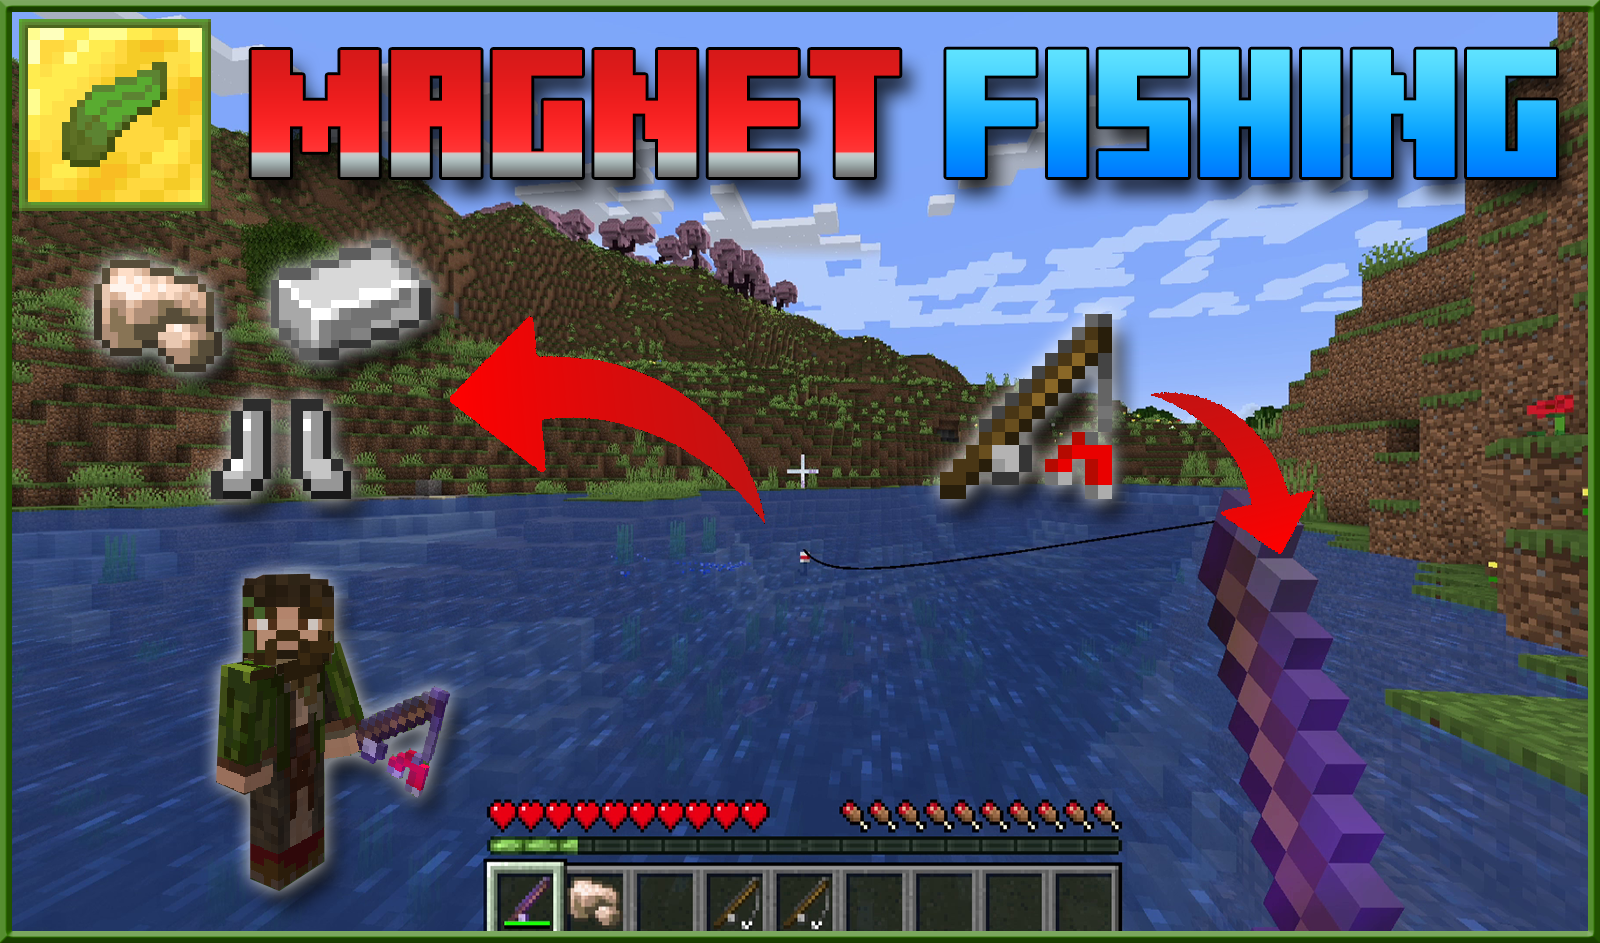
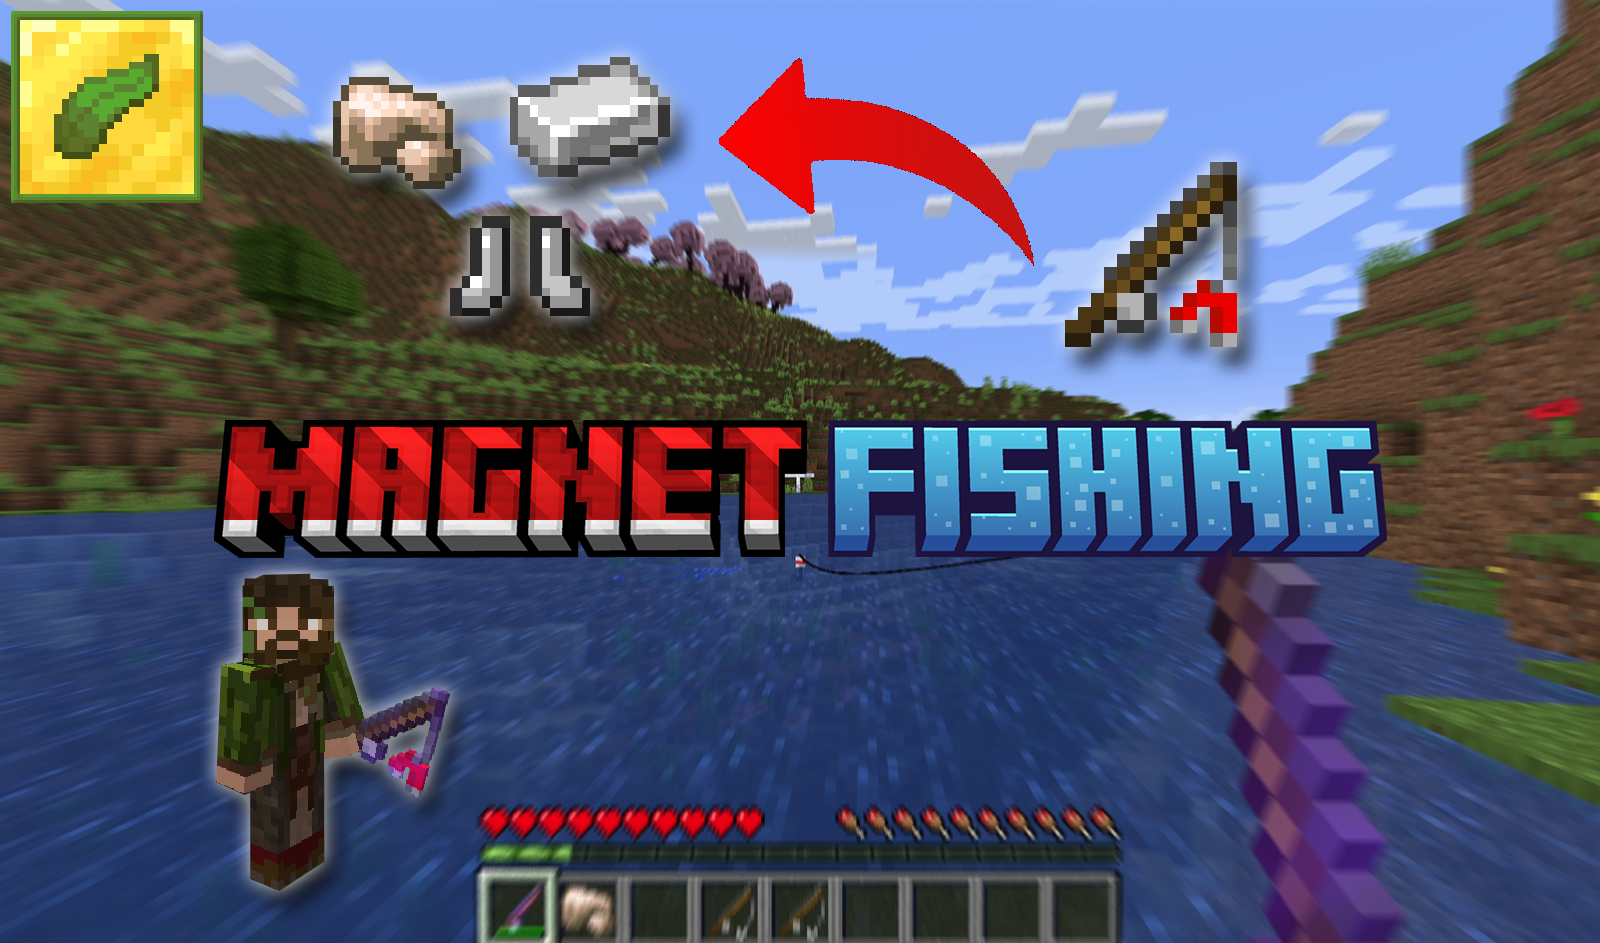
ethical textiles + magnet fishing updates

diff --git a/pages/vegancraft/ethical_textiles.md b/pages/vegancraft/ethical_textiles.md
@@ -4,36 +4,44 @@ keywords: minecraft, datapack, vegan, veganism, plant-based, pacifist, clothes, 
 tags: [datapack, vegancraft, standalone, crafting]
 sidebar: home_sidebar
 toc: true
-last_updated: 05/Jan/2024
+last_updated: 22/May/2024
 permalink: ethical_textiles.html
 published: true
 github: https://github.com/daenvil/vegancraft
 pmc: https://www.planetminecraft.com/data-pack/ethical-textiles-plant-string-and-leather/
 first_release: ["15","Oct","2022"]
-last_release: ["05","Jan","2024"]
+last_release: ["22","May","2024"]
 logo: vegancraft/ethical_textiles/pack.png
 thumbnail: vegancraft/ethical_textiles/thumbnail.png
-intro: "A datapack that adds plant-based alternatives to leather, string, wool, and feathers.<br/><br/>You will need my <a href=acacia_gum.html>Acacia Gum datapack</a> in order to have a vegan leather option (but it's not required to use this datapack)."
-abstract: "Plant-based alternatives for string, leather, beds, and feathers. Use together with <i>Acacia Gum</i> to have fully vegan leather."
+intro: "A datapack that adds plant-based alternatives to leather, string, wool, feathers, and armadillo scute.<br/><br/>You will need my <a href=acacia_gum.html>Acacia Gum datapack</a> in order to have a vegan leather option (but it's not required to use this datapack)."
+abstract: "Plant-based alternatives for string, leather, beds, feathers, and armadillo scute. Use together with <i>Acacia Gum</i> to have fully vegan leather."
 priority: 4
 index: 12
-gallery: [images/vegancraft/ethical_textiles/thumbnail.png,https://static.planetminecraft.com/files/image/minecraft/data-pack/2022/359/16162473-advancements_l.webp]
+gallery: [images/vegancraft/ethical_textiles/thumbnail.png]
 ---
 
 ## Downloads
 Choose the option compatible with your Minecraft version:
 
 <ul id="profileTabs" class="nav nav-tabs">
-    <li class="active"><a href="#current" data-toggle="tab">1.20+</a></li>
+    <li class="active"><a href="#current" data-toggle="tab">1.20.5–1.20.6</a></li>
+    <li><a href="#legacy1-20" data-toggle="tab">1.20–1.20.4</a></li>
     <li><a href="#legacy" data-toggle="tab">1.17–1.19.4</a></li>
 </ul>
 
 <div class="tab-content">
     <div role="tabpanel" class="tab-pane active" id="current">
         <p>
-            {% include dp_badges.html supports="1.20+" tested="1.20, 1.20.4" %}
+            {% include dp_badges.html supports="1.20.5–1.20.6" tested="1.20.6" %}
             <br/>
-            {% include dp_download.html version="v1.1.1" pmc-url="https://www.planetminecraft.com/data-pack/ethical-textiles-plant-string-and-leather/" github-url="https://github.com/daenvil/vegancraft/releases/download/v1.0.1/ethical_textiles_v1.1.1.zip" rp-version="v1.0" rp-github-url="https://github.com/daenvil/vegancraft/releases/download/v1.0/vegancraft-RP_v1.0.zip" %}
+            {% include dp_download.html version="v2.0" pmc-url="https://www.planetminecraft.com/data-pack/ethical-textiles-plant-string-and-leather/" github-url="https://github.com/daenvil/vegancraft/releases/download/v1.1-pre3/ethical_textiles_v2.0.zip" rp-version="v1.0" rp-github-url="https://github.com/daenvil/vegancraft/releases/download/v1.1-pre3/vegancraft-RP_v1.1.zip" %}
+        </p>
+    </div>
+    <div role="tabpanel" class="tab-pane" id="legacy1-20">
+        <p>
+            {% include dp_badges.html supports="1.20–1.20.4" tested="1.20, 1.20.4" %}
+            <br/>
+            {% include dp_download.html version="v1.1.1" github-url="https://github.com/daenvil/vegancraft/releases/download/v1.0.1/ethical_textiles_v1.1.1.zip" rp-version="v1.0" rp-github-url="https://github.com/daenvil/vegancraft/releases/download/v1.0/vegancraft-RP_v1.0.zip" discontinued=true %}
         </p>
     </div>
     <div role="tabpanel" class="tab-pane" id="legacy">
@@ -53,7 +61,7 @@ Choose the option compatible with your Minecraft version:
 
 ### New recipes
 
-{% include comments/important.html content="These recipes will output a knowledge book, the knowledge book will convert automatically into the desired item once you click on it. If using the resourcepack, the knowledge book will display as a question mark named \"Custom Item\"." %}
+{% include comments/important.html content="The Vegancraft Resourcepack (download above) is required to see the new textures in game." %}
 
 #### Faux Leather
 
@@ -76,26 +84,46 @@ or 6:
 #### Plant-based string
 Vines, sugar cane, and dripleaves can be used to craft **string**. Use 4 of these strings to craft vegan "wool".
 
-{% include image/basic.html src="vegancraft/ethical_textiles/screenshots/recipes/string.gif" alt="Plant string recipes" align="center" width="200" %}
+{% include image/basic.html src="vegancraft/ethical_textiles/screenshots/recipes/string.gif" alt="Plant string recipes" align="center" width="300" %}
 
 #### Faux feathers
 Craft faux **feathers** with a stick, two strings, and one of any leaves.
 
-{% include image/basic.html src="vegancraft/ethical_textiles/screenshots/recipes/feather.gif" alt="Faux Feather recipe" align="center" width="200" %}
+{% include image/basic.html src="vegancraft/ethical_textiles/screenshots/recipes/feather.png" alt="Faux Feather recipe" align="center" width="300" %}
 
 #### Synthetic cobwebs
-**Cobwebs** can be crafted with 8 strings and a slime ball.
+**Cobwebs** can be crafted a slime ball surrounded by 8 strings.
 
-### Custom textures
-Faux leather and plant string have their own texture. Here they are compared to their vanilla counterparts:
+{% include image/basic.html src="vegancraft/ethical_textiles/screenshots/recipes/cobweb.png" alt="Synthetic Cobweb recipe" align="center" width="300" %}
 
-{% include image/basic.html src="vegancraft/ethical_textiles/screenshots/texture_comparison.png" alt="Texture comparison" align="center" width="180" %}
+#### Armor scales
+Crafted with a diamond, two strings, and a slime ball. It's an alternative to **armadillo scute**. Use it to craft wolf armor without using armadillos.
 
-The [Vegancraft Resourcepack](#downloads) is required to see these textures in-game.
+{% include image/basic.html src="vegancraft/ethical_textiles/screenshots/recipes/armor_scale.png" alt="Armor Scale recipe" align="center" width="300" %}
+{% include image/basic.html src="vegancraft/ethical_textiles/screenshots/recipes/wolf_armor.png" alt="Wolf armor recipe using armor scales instead of armadillo scutes" align="center" width="300" %}
 
-{% include comments/important.html content="Due to the way I coded the recipes, sometimes the output will show the actual vanilla item. If you want the custom item name and texture, just change the position of any ingredient and the output will change to the knowledge book (a question mark, when using the resourcepack). I decided to do it this way so the the vanilla counterpart of the output shows up in the in-game recipe book, instead of having to remember what the recipes do. Here is an example, the recipe shows a vanilla bed, and changing the position of one ingredient outputs the custom item:" %}
+#### Alternative brush recipe
+With this datapack, you can craft a regular brush using **4 string instead of a feather**.
 
-{% include image/basic.html src="vegancraft/ethical_textiles/screenshots/swap_ingredients.gif" alt="Swapping the position of two ingredients will change the output to a knowledge book, if it was not already" align="center" width="300" %}
+{% include image/basic.html src="vegancraft/ethical_textiles/screenshots/recipes/brush.png" alt="Armor Scale recipe" align="center" width="300" %}
+
+### Recipe book integration
+
+From Minecraft 1.20.5 and later versions, the custom items will appear in the in-game recipe book like any other recipe, and you can filter them using the name of this datapack:
+
+{% include image/basic.html src='vegancraft/ethical_textiles/screenshots/recipe_book.png' alt='All custom items showing up in the in-game recipe book' align='center' width='600' nn=true %}
+
+However, there's a limitation which is kind of annoying, which is that custom items are not automatically recognized as ingredients, so you will still need to put them manually in the crafting grid. This will be the case with any recipe that uses string, leather, or feathers.
+
+{% include comments/important.html content="Prior to Minecraft 1.20.5, the datapack worked differently, with the custom recipes outputting a knowledge book. I recommend playing on Minecraft 1.20.5 or superior, which is much better due to this change." %}
+
+### Vegan ingredients detection
+
+Since some items can be crafted using regular slime balls (instead of the vegan alternative, [acacia gum](acacia_gum.html)), the datapack will detect if you are using vegan slime balls or not when crafting these items, labelling them if they are not vegan. Vegan and non-vegan items do not stack.
+
+Hopefully, Minecraft will add proper ingredient detection in the future so this can be improved.
+
+Strings and other items are not treated this way, though, since it would be too complex and pointless to track where they came from.
 
 ### Vegancraft
 
@@ -103,30 +131,21 @@ This is a standalone datapack, but was designed as a part of [Vegancraft](veganc
 
 As part of its integration on Vegancraft, this datapack includes the following additional features:
 
+When playing using the full Vegancraft datapack instead of the standalone Plant-based Foods datapack, the following features are enabled:
+
 - A custom advancement tree.
-- Some xp will be awarded when crafting faux leather, plant string, and faux feathers. For leather/feathers, the amount of xp is somewhat equivalent to what you would get by getting it the "regular" way (breeding and killing cows/chickens). For string, it is only 0.1 XP, since it's very easy to get.
-- Vegan ingredients detection: the datapack will determine if you are using vegan ingredients or not when crafting these items, labelling them if they are not vegan. Vegan and non-vegan items do not stack.
-
-{% include image/basic.html src="vegancraft/ethical_textiles/screenshots/slime_leather.png" alt="Faux leather with animal slime" align="center" width="200" %}
-
-If, for any reason, you want to remove these features, you can use the command **<code>/function dnv.vegancraft:toggle</code>** to disable them. You can also use that command to turn them on again.
-
-### Future features
-
-In the future, I might consider:
-
-- Improving the existing recipes and advancements.
-- Improving the vegan advancement tree.
 
 ## Reasoning for the recipes
 
 - Faux leather is based on real-world alternatives for leather, dark oak representing tree bark. Slime represents the plastic substances which are often used in their manufacture.
 - Rudimentary beds: I just found it weird how in the early game you need to find sheep in order to sleep, and thought it would make sense to be able to craft beds with more rudimentary materials.
 - String: since the most common real-world plants that produce fibers are not in the game (cotton, linen, flax...) I just decided to take the vanilla plants that looked more "stringy" and also sugar cane, because in-game it is already implied that it produces fiber since you make paper from it.
-- Faux feathers can be crafted in real life using cloth or leaves. I decided to use leaves for this recipe since they already have a similar shape and can be used to craft arrows, whil using wool would make them very easy to get (since you can craft wool from string). The recipe represents leaves sewn together to a small stick in a feather-like shape.
+- Faux feathers can be crafted in real life using cloth or leaves. I decided to use leaves for this recipe since they already have a similar shape and can be used to craft arrows, while using wool would make them very easy to get (since you can craft wool from string). The recipe represents leaves sewn together to a small stick in a feather-like shape.
 - Since cobweb is rarely used in the game, I just added a simple recipe which represents strings covered in slime to make them sticky.
+- Armor scale represents the obvious. It uses a diamond since the wolf armor's protection is similar to that of diamond horse armor, and the strings and slime represent how these scales connect to one another to form an armor.
+- The alternative brush recipe is just to have an easier way to obtain a brush without killing birds. Otherwise, you would have to first craft faux feathers, which can be a bit of a pain when you are out exploring.
 - I considered adding a recipe for rabbit hides but, since they are only used to craft bundles, which are not yet officially in the game, I didn't do it. If you want to craft bundles without killing rabbits, I suggest using [Vanilla Tweaks' Craftable Bundles (Leather)](https://vanillatweaks.net/picker/crafting-tweaks/){:target="_blank"} or my own [Scrap Leather](scrap_leather.html), which allows you to convert leather to rabbit hides.
 - I didn't create a "vegan wool" item because of how many color variants there are and the difficult/cumbersome it would be to have a vegan variant for each one of them.
 
 ## Known issues and solutions
-- As mentioned before, some recipes in the in-game recipe book will show the vanilla item instead of the custom one. This is on purpose since I think it's more clear and user-friendly to have the actual outputs show up in the recipe book. The recipes of the custom items are shapeless, so you can just change the position of any ingredient and the output will change to the custom item, which will convert to the custom item. You can also use this to your advantage if you already have vanilla items in your inventory and you want to stack on them instead of having custom items on a separate stack. However, this is not consistent and sometimes the custom item is the only possible output.
+- As mentioned before, custom ingredients aren't automatically filled when clicking on a recipe in the recipe book. You will have to manually put them in the grid.

diff --git a/pages/vegancraft/magnet_fishing.md b/pages/vegancraft/magnet_fishing.md
@@ -4,13 +4,13 @@ keywords: minecraft, datapack, fishing, iron, junk, scrap, vegan, veganism, paci
 tags: [datapack, vegancraft, standalone, simple]
 sidebar: home_sidebar
 toc: true
-last_updated: 05/Jan/2024
+last_updated: 22/May/2024
 permalink: magnet_fishing.html
 published: true
 github: https://github.com/daenvil/vegancraft
 pmc: https://www.planetminecraft.com/data-pack/magnet-fishing/
 first_release: ["16","Apr","2023"]
-last_release: ["05","Jan","2024"]
+last_release: ["22","May","2024"]
 logo: vegancraft/magnet_fishing/pack.png
 thumbnail: vegancraft/magnet_fishing/thumbnail.png
 intro: "A datapack that adds a magnet fishing rod, with which you can fish iron and iron items."
@@ -24,16 +24,24 @@ gallery: [images/vegancraft/magnet_fishing/thumbnail.png,images/vegancraft/magne
 Choose the option compatible with your Minecraft version:
 
 <ul id="profileTabs" class="nav nav-tabs">
-    <li class="active"><a href="#current" data-toggle="tab">1.20+</a></li>
+    <li class="active"><a href="#current" data-toggle="tab">1.20.5+</a></li>
+    <li><a href="#legacy1-20" data-toggle="tab">1.20–1.20.4</a></li>
     <li><a href="#legacy" data-toggle="tab">1.19.4</a></li>
 </ul>
 
 <div class="tab-content">
     <div role="tabpanel" class="tab-pane active" id="current">
         <p>
-            {% include dp_badges.html supports="1.20+" tested="1.20, 1.20.4" %}
+            {% include dp_badges.html supports="1.20.5+" tested="1.20.6" %}
             <br/>
-            {% include dp_download.html version="v1.1" pmc-url="https://www.planetminecraft.com/data-pack/magnet-fishing/" github-url="https://github.com/daenvil/vegancraft/releases/download/v1.0/magnet_fishing_v1.1.zip" rp-version="v1.0, OPTIONAL" rp-github-url="https://github.com/daenvil/vegancraft/releases/download/v1.0/vegancraft-RP_v1.0.zip" %}
+            {% include dp_download.html version="v2.0" pmc-url="https://www.planetminecraft.com/data-pack/magnet-fishing/" github-url="https://github.com/daenvil/vegancraft/releases/download/v1.1-pre3/magnet_fishing_v2.0.zip" rp-version="v1.1, OPTIONAL" rp-github-url="https://github.com/daenvil/vegancraft/releases/download/v1.1-pre3/vegancraft-RP_v1.1.zip" %}
+        </p>
+    </div>
+    <div role="tabpanel" class="tab-pane" id="legacy1-20">
+        <p>
+            {% include dp_badges.html supports="1.20–1.20.4" tested="1.20, 1.20.4" %}
+            <br/>
+            {% include dp_download.html version="v1.1" github-url="https://github.com/daenvil/vegancraft/releases/download/v1.0/magnet_fishing_v1.1.zip" rp-version="v1.0, OPTIONAL" rp-github-url="https://github.com/daenvil/vegancraft/releases/download/v1.0/vegancraft-RP_v1.0.zip" discontinued=true %}
         </p>
     </div>
     <div role="tabpanel" class="tab-pane" id="legacy">
@@ -53,7 +61,7 @@ Choose the option compatible with your Minecraft version:
 
 ### Crafting a magnet fishing rod
 
-Craft a magnet rod with a regular **fishing rod**, an **iron ingot**, and **redstone dust**. The result will look like a knowledge book (or a question mark if you are using the resourcepack), just click on it and you will receive your magnet fishing rod.
+Craft a magnet rod with a regular **fishing rod**, an **iron ingot**, and **redstone dust**.
 
 {% include comments/warning.html content="When crafting a magnet rod, <b>any enchantment that the regular fishing rod has will be lost!</b> A newly crafted magnet rod is always unenchanted." %}
 
@@ -64,12 +72,11 @@ Craft a magnet rod with a regular **fishing rod**, an **iron ingot**, and **reds
 You can use the magnet rod just like you would use a regular fishing rod. The only difference is in the items that you will receive. You can find a list of the loot tables below. The **fishing enchantments** (*Lure* and *Luck of the sea*) **also work with this magnet rod**!
 
 {% include image/basic.html src="vegancraft/magnet_fishing/screenshots/example.gif" alt="Example of the magnet rod being used" align="center" width="480" %}
-{% include image/basic.html src="vegancraft/magnet_fishing/screenshots/enchantments.png" alt="Magnet rod crafting recipe" align="center" width="300" %}
 
 {% include collapsible.html id="loot-list" title="List of loot items" content="<ul><li><b>Main catches</b>: raw iron (70%), iron ingot (20%), iron ore (10%).</li><li><b>Junk</b> (all items are damaged if possible): iron tools and weapons, chainmail armor, bucket, compass, chain, lantern, tripwire hook, rail, iron bars.</li><li><b>Treasure</b> (all items are damaged and enchanted if possible): Damaged anvil, iron armor, shield, iron tools and weapons, crossbow, bow, fishing rod, name tag.</li></ul><p align=center><img class=\"docimage\" src=\"images/vegancraft/magnet_fishing/loot.png\" alt=\"Loot items\" style=\"max-width:600px;\" /></p>" %}
 
 ### Custom texture
-The resourcepack (downloadable above) is **optional**. If not installed, the magnet rod will look just like a regular fishing rod, but renamed and with enchantment glint.
+The resourcepack (downloadable above) is **optional**. If not installed, the magnet rod will look just like a regular fishing rod but renamed.
 
 ### Vegancraft
 This is a standalone datapack, but was originally designed as a part of [Vegancraft](vegancraft.html), a collection of datapacks with the goal of making a vegan gamestyle possible in a vanilla-like way without missing any game features. Check out my *[Plant-based Foods](plant-based_foods.html)* datapack if you also want to cook fish substitutes, and some additional features.

diff --git a/_posts/2024-05-22-ethical_textiles_v2.0.md b/_posts/2024-05-22-ethical_textiles_v2.0.md
@@ -1,0 +1,19 @@
+---
+title:  "Ethical Textiles - v2.0 release"
+published: true
+permalink: ethical_textiles_v2.0.html
+summary: "Added armor scale and new brush recipe, updated for MC1.20.5+"
+tags: [news,changelog,vegancraft]
+datapack: ethical_textiles
+changelog: v2.0
+---
+
+This update has two important additions:
+
+- A new "armor scale" item, which is equivalent to armadillo scute and allows you to craft wolf armor without using armadillos.
+- A new brush recipe that uses strings instead of feathers. Really useful for when you are exploring and need to quickly craft a brush.
+
+<div class="btn-group">
+    <a href="ethical_textiles_v1.1.html" role="button" class="btn btn-primary"><i class="fa fa-caret-left"></i>&nbsp; Previous release: v1.1</a>
+    <button role="button" class="btn btn-default disabled">Next release: TBR &nbsp;<i class="fa fa-caret-right"></i> </button>
+</div>

diff --git a/_posts/2024-01-05-ethical_textiles_v1.1.1.md b/_posts/2024-01-05-ethical_textiles_v1.1.1.md
@@ -8,9 +8,9 @@ datapack: ethical_textiles
 changelog: v1.1.1
 ---
 
-A quick patch to make the pack compatible with the name change of ``grass`` to ``short_grass`` that happened at 1.20.3-
+A quick patch to make the pack compatible with the name change of ``grass`` to ``short_grass`` that happened at 1.20.3.
 
 <div class="btn-group">
     <a href="ethical_textiles_v1.1.html" role="button" class="btn btn-primary"><i class="fa fa-caret-left"></i>&nbsp; Previous release: v1.1</a>
-    <button role="button" class="btn btn-default disabled">Next release: TBR &nbsp;<i class="fa fa-caret-right"></i> </button>
+    <a href="ethical_textiles_v2.0.html" role="button" class="btn btn-primary">Next release: v2.0 &nbsp;<i class="fa fa-caret-right"></i></a>
 </div>

diff --git a/_includes/changelogs/ethical_textiles/v2.0.md b/_includes/changelogs/ethical_textiles/v2.0.md
@@ -1,0 +1,6 @@
+
+- Added a new item: **Armor Scale**, which has the same usage as the armadillo scute. Crafted with 2 strings, 1 slime ball, and 1 diamond (1 craft provides 2 scales).
+- Added an alternative **brush** recipe that uses 4 strings instead of a feather.
+- Reworked all custom recipes into the new system. Now custom recipes will show their correct output instead of a knowledge book, both in the crafting table output and in the recipe book.
+- Removed advancements. Now those are only available in the full Vegancraft datapack.
+- Added "give" functions for every custom item. The command is ``/function dnv.ethical_textiles:give/<item_id>``

diff --git a/_posts/2024-05-22-magnet_fishing_v2.0.md b/_posts/2024-05-22-magnet_fishing_v2.0.md
@@ -1,0 +1,16 @@
+---
+title: "Magnet Fishing - v2.0 update"
+published: true
+permalink: magnet_fishing_v2.0.html
+summary: "Minecraft 1.20.5 changes."
+tags: [news,changelog,vegancraft]
+datapack: magnet_fishing
+changelog: v2.0
+---
+
+A small update to adapt the datapack for Minecraft 1.20.5+.
+
+<div class="btn-group">
+    <a href="magnet_fishing_v1.1.html" role="button" class="btn btn-primary"><i class="fa fa-caret-left"></i>&nbsp; Previous release: v1.1</a>
+    <button role="button" class="btn btn-default disabled">Next release: TBR &nbsp;<i class="fa fa-caret-right"></i> </button>
+</div>

diff --git a/_posts/2023-06-05-magnet_fishing_v1.1.md b/_posts/2023-06-05-magnet_fishing_v1.1.md
@@ -12,5 +12,5 @@ A small update to adapt the datapack for Minecraft 1.20 and for [Vegancraft 1.0]
 
 <div class="btn-group">
     <a href="magnet_fishing_v1.html" role="button" class="btn btn-primary"><i class="fa fa-caret-left"></i>&nbsp; Previous release: v1</a>
-    <button role="button" class="btn btn-default disabled">Next release: TBR &nbsp;<i class="fa fa-caret-right"></i> </button>
+    <a href="magnet_fishing_v2.0.html" role="button" class="btn btn-primary">Next release: v2.0 &nbsp;<i class="fa fa-caret-right"></i></a>
 </div>

diff --git a/_includes/changelogs/magnet_fishing/v2.0.md b/_includes/changelogs/magnet_fishing/v2.0.md
@@ -1,0 +1,5 @@
+
+- Reworked custom recipe into the new system. Now the recipe will show its correct output instead of a knowledge book, both in the crafting table output and in the recipe book.
+- Removed advancements. Now those are only available in the full Vegancraft datapack.
+- Crafting leather and string no longer rewards XP.
+- Added "give" functions for the magnet rod. The command is ``/function dnv.magnet_fishing:give/magnet_fishing_rod``
